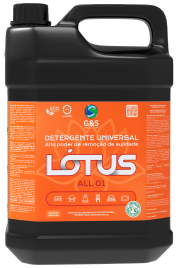
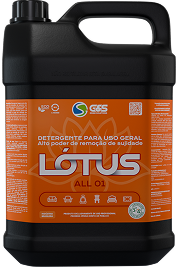
Fix: all one img

diff --git a/components/Catalog/CATALOG_ITEMS.ts b/components/Catalog/CATALOG_ITEMS.ts
@@ -203,8 +203,8 @@ export const CATALOG_ITEMS_VEG: Array<Product> = [
     id: 1,
     recomended: "40",
     title: "ALL01", //done
-    thumbnail: "/produtos/novas/all.png",
-    large_image: "/produtos/novas/all.png",
+    thumbnail: "/produtos/novas/allone.png",
+    large_image: "/produtos/novas/allone.png",
     slogan:
       "ALL-01-S DETERGENTE UNIVERSAL DE USO GERAL com alto poder de remoção.",
     chamada: "Detergente vegano",
